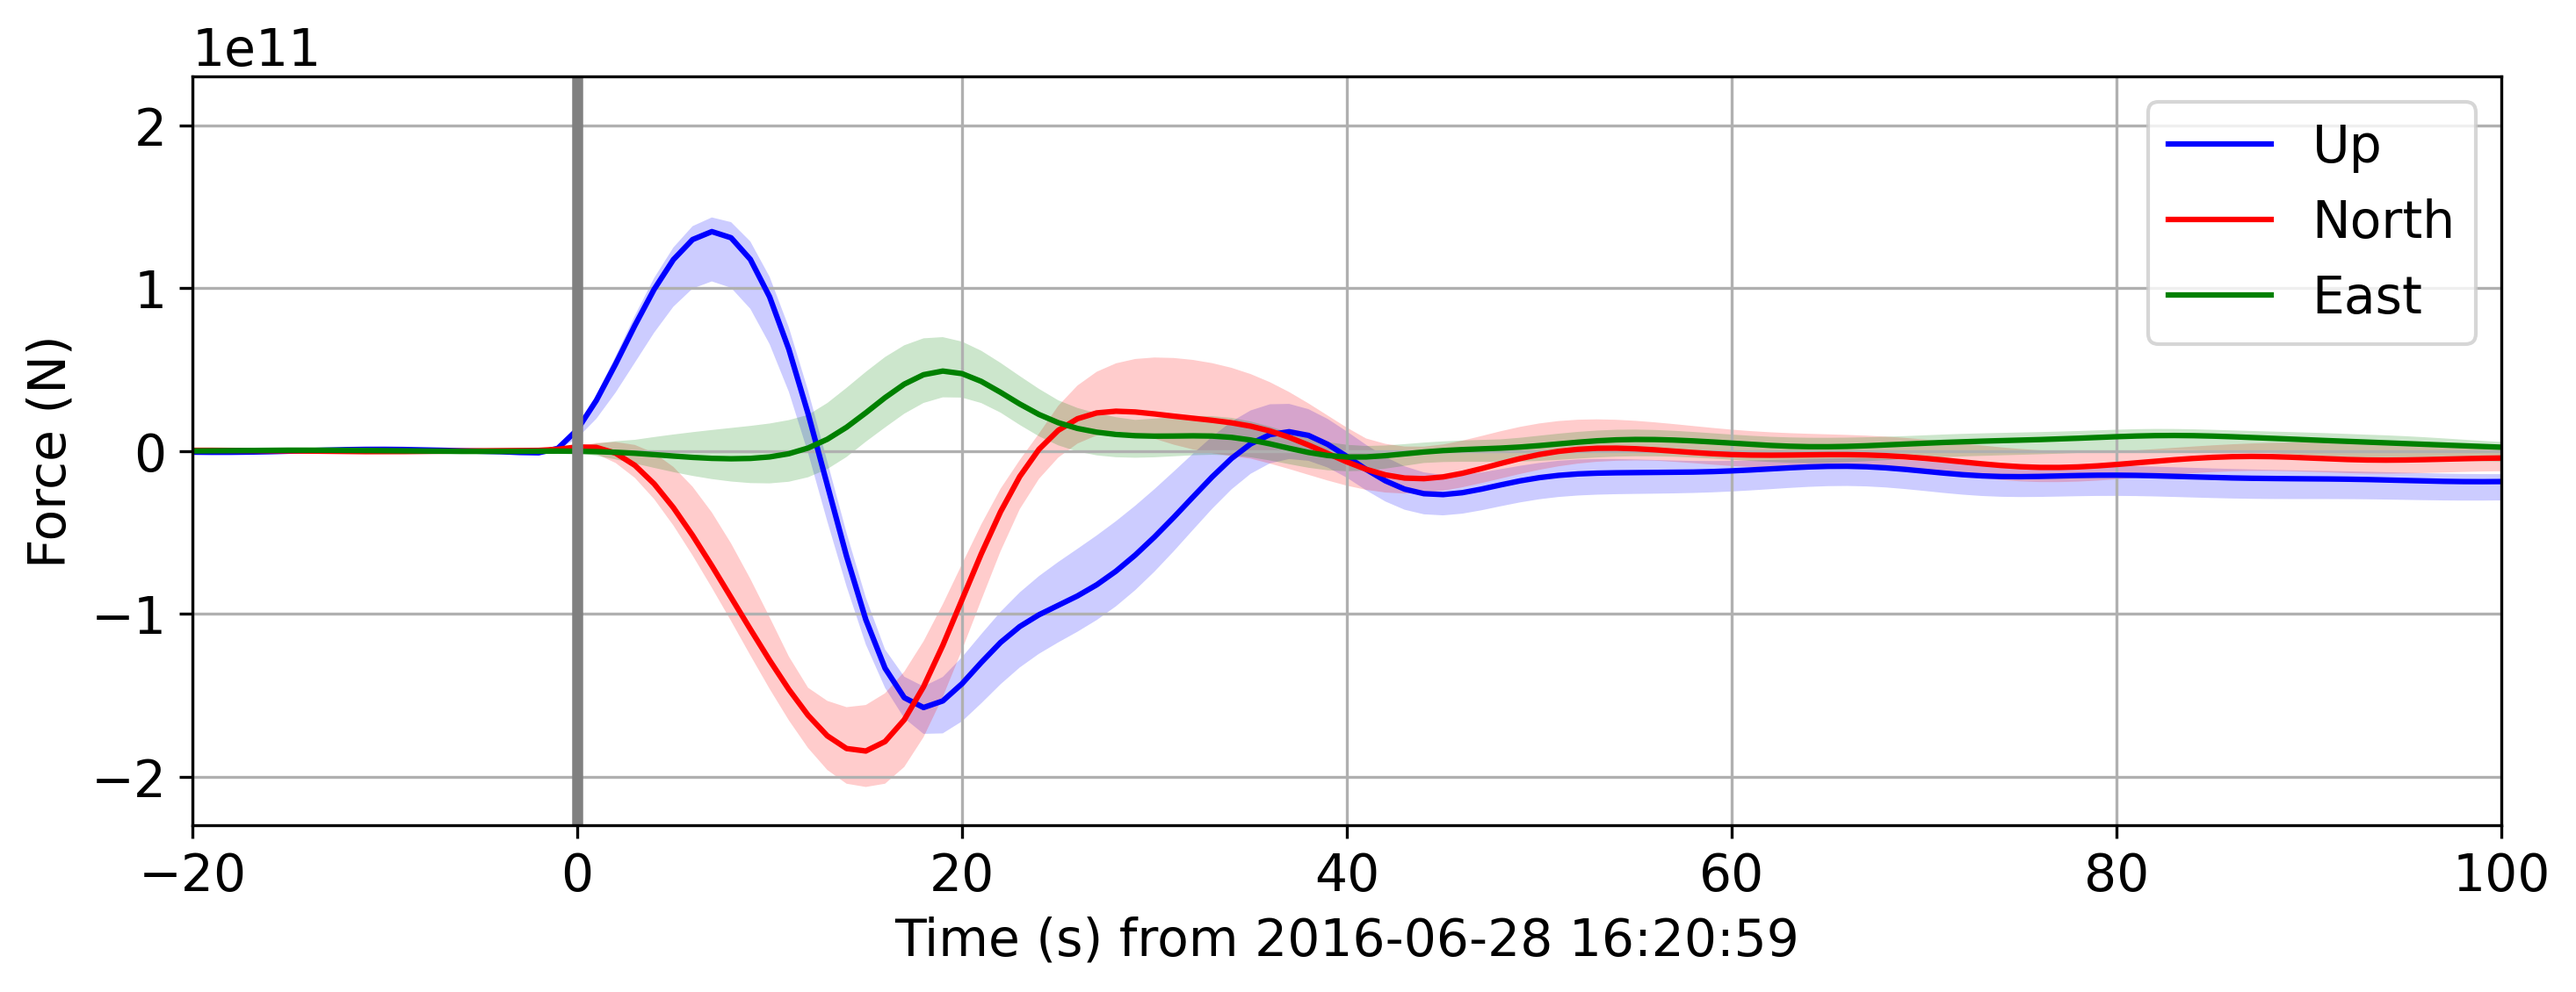
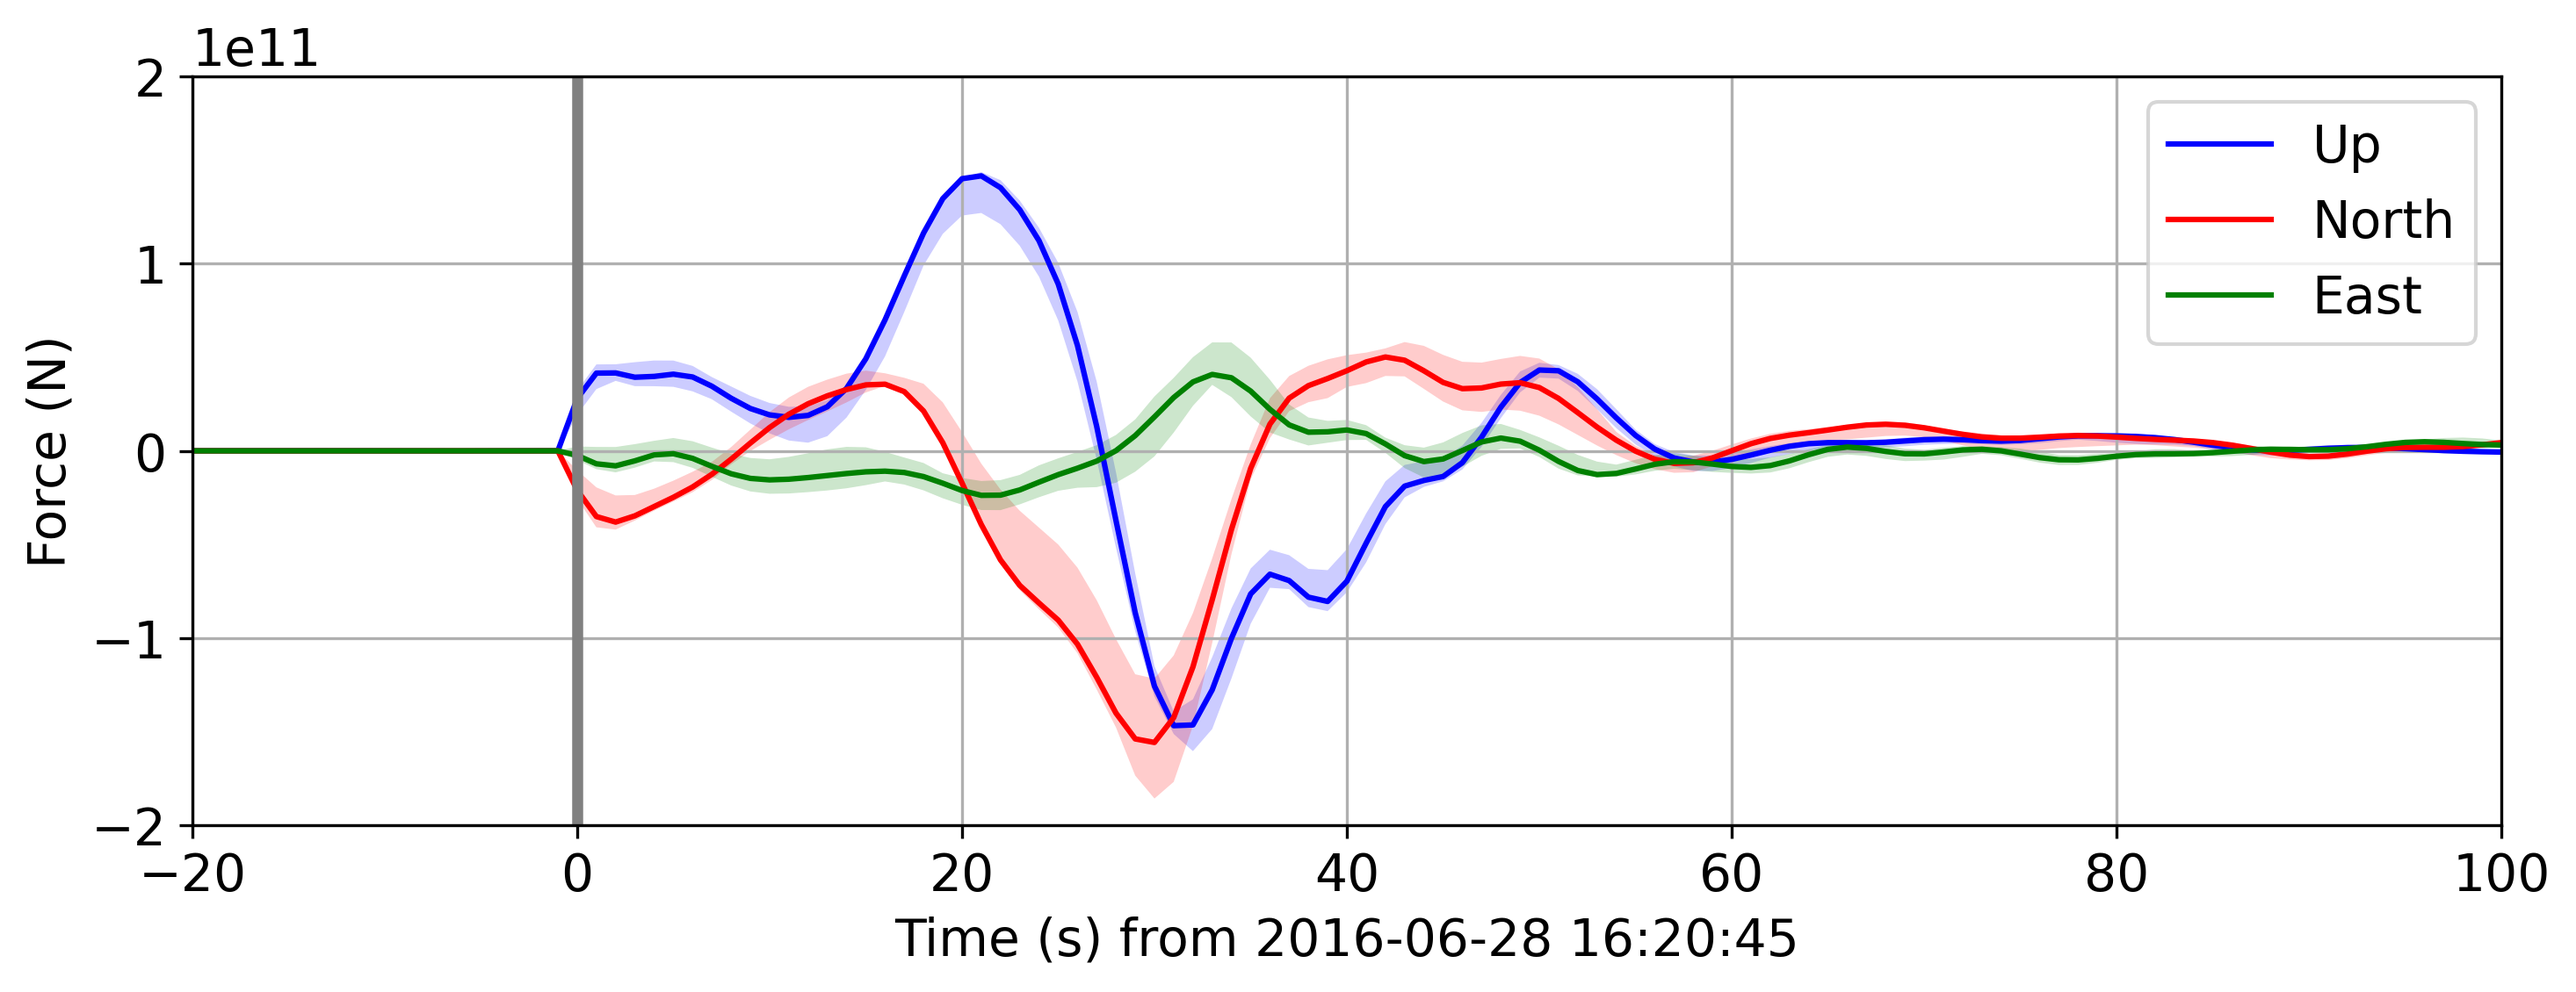
Update README figure

diff --git a/README.md b/README.md
@@ -16,7 +16,7 @@ after the inversion step in notebooks/example_lamplugh.ipynb)
 import matplotlib.pyplot as plt
 plt.rcParams.update({'font.size': 14})
 fig = force_full.plot_forces(xlim=(-20, 100));
-LIM = 2.3e11
+LIM = 2e11
 fig.axes[0].set_ylim(-LIM, LIM)
 fig.savefig(
     '../example_force_history_NEW.png',
